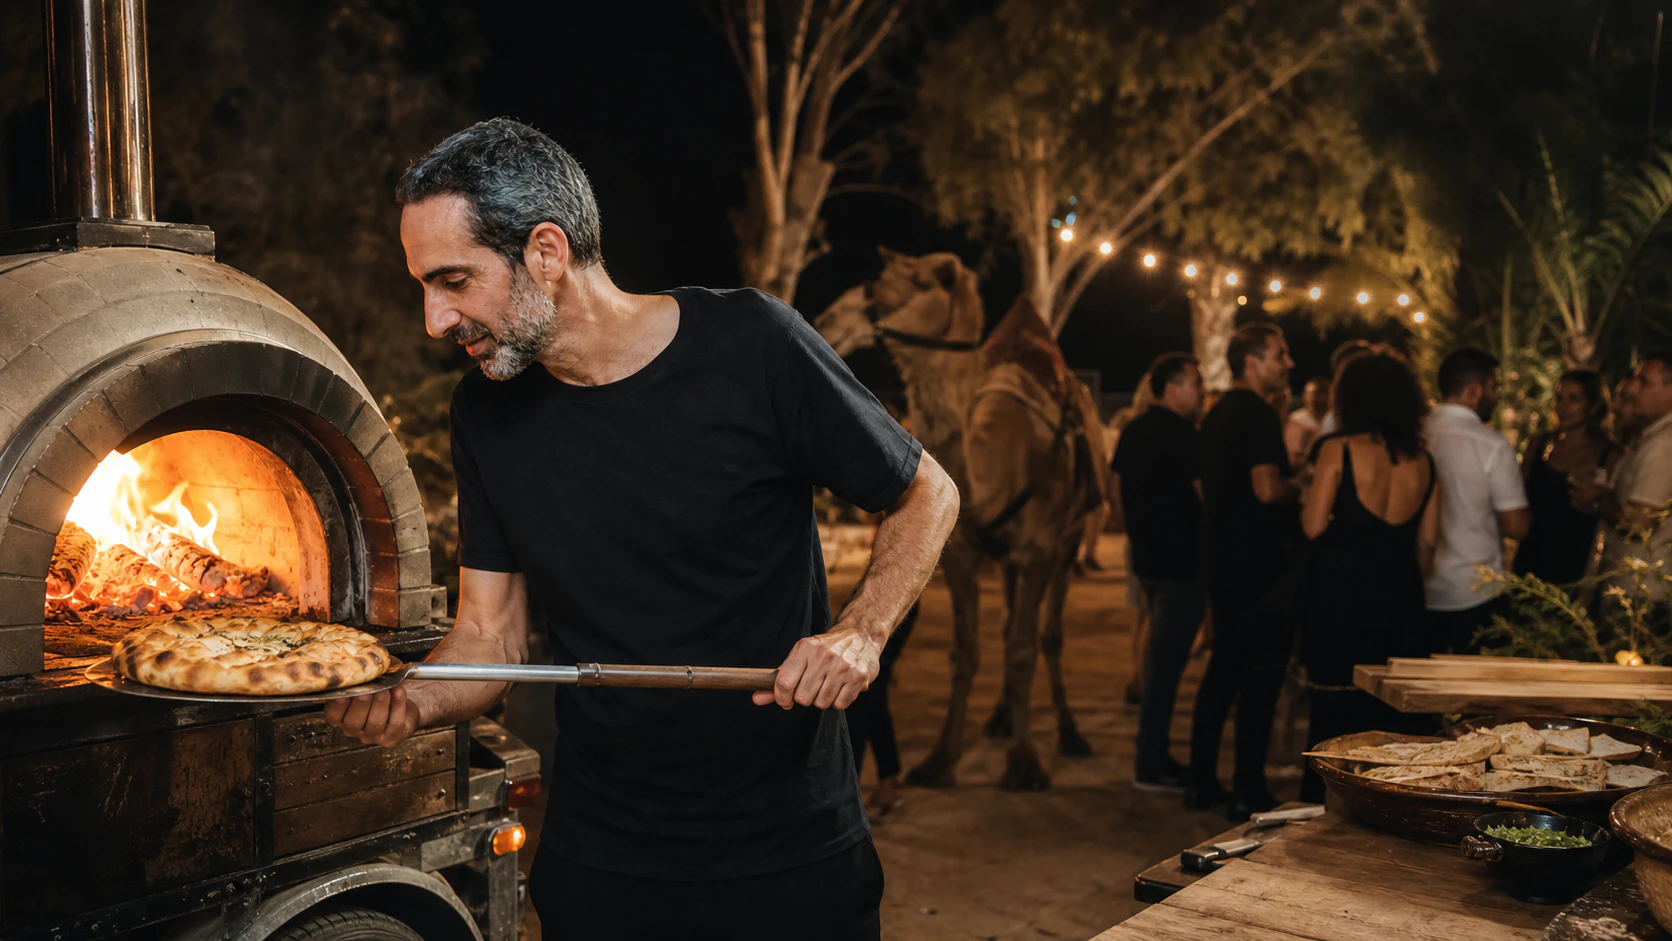
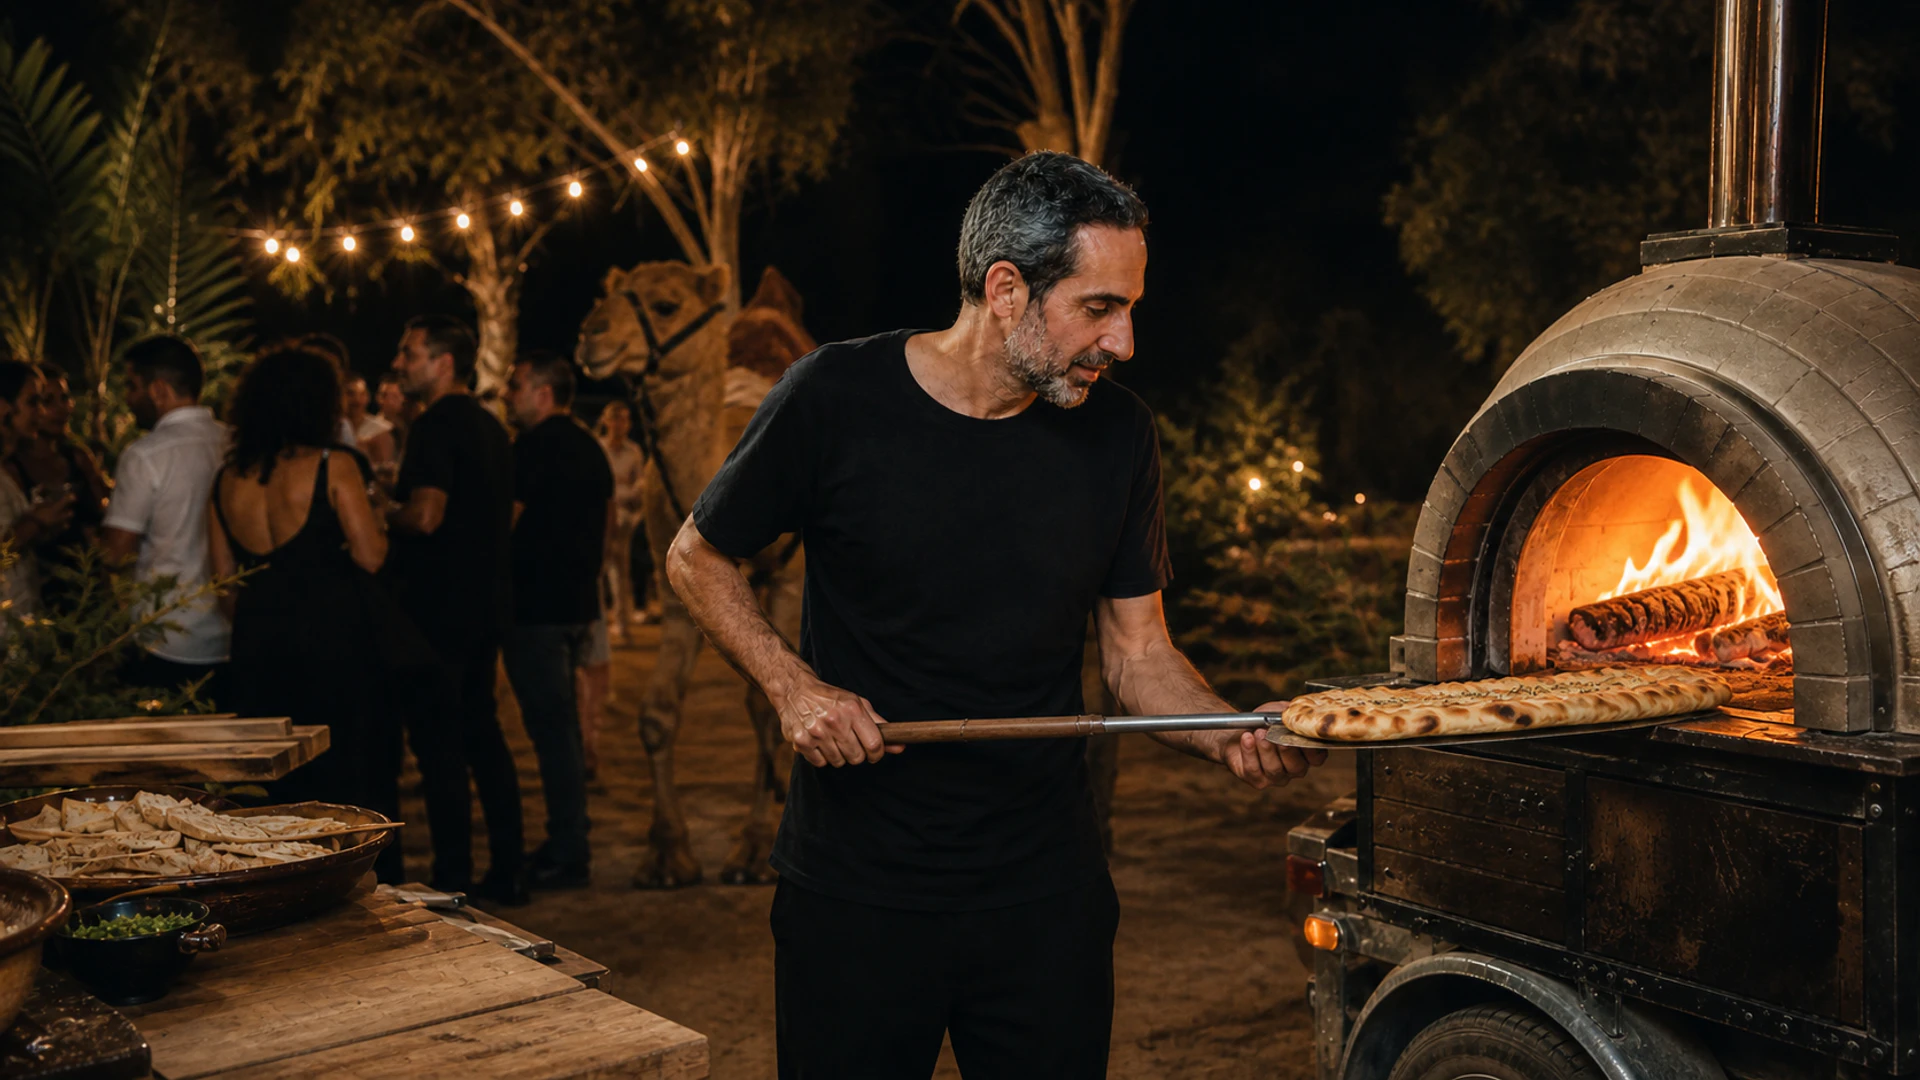
Refresh hero composition and mobile crop

diff --git a/app/globals.css b/app/globals.css
@@ -268,7 +268,7 @@ h1, h2, h3, p { margin-top: 0; }
   height: 100%;
   max-width: none;
   object-fit: cover;
-  object-position: 43% center;
+  object-position: center;
   filter: saturate(1.05) contrast(1.05) brightness(0.92);
   transform: translate(calc(var(--px) * -12px), calc(var(--py) * -8px)) scale(1.045);
   transition: filter 650ms ease, transform 240ms ease-out, opacity 360ms ease;
@@ -1635,20 +1635,21 @@ h1, h2, h3, p { margin-top: 0; }
 
   .poster-hero {
     --split: 50%;
+    --mobile-photo-h: clamp(300px, 40svh, 410px);
     min-height: auto;
     grid-template-columns: 1fr;
-    grid-template-rows: 54svh auto 48px;
+    grid-template-rows: var(--mobile-photo-h) auto 48px;
   }
 
   .poster-hero::before {
-    inset: calc(54svh - 30px) 0 auto;
+    inset: calc(var(--mobile-photo-h) - 30px) 0 auto;
     width: auto;
     height: 60px;
     background: linear-gradient(180deg, transparent, rgba(255, 84, 27, .3), transparent);
   }
 
   .poster-hero::after {
-    inset: calc(54svh - 1px) 0 auto;
+    inset: calc(var(--mobile-photo-h) - 1px) 0 auto;
     width: auto;
     height: 2px;
     background: linear-gradient(90deg, transparent, #ffb43e 20%, #fff1c8 50%, var(--orange) 80%, transparent);
@@ -1675,7 +1676,7 @@ h1, h2, h3, p { margin-top: 0; }
   .poster-photo { grid-column: 1; grid-row: 1; border-inline-end: 0; border-bottom: 1px solid var(--line-dark); }
   .heat-haze-canvas { display: none; }
   .poster-photo:has(.heat-haze-canvas.is-ready) > picture { opacity: 1; }
-  .poster-photo > picture img { object-position: center 42%; transform: scale(1.015); }
+  .poster-photo > picture img { object-position: right center; transform: scale(1.015); }
   .photo-stamp { inset-inline-start: 18px; inset-block-end: 20px; }
 
   .poster-copy { grid-column: 1; grid-row: 2; min-height: 590px; padding: 64px 20px 52px; }
@@ -1688,7 +1689,7 @@ h1, h2, h3, p { margin-top: 0; }
   .poster-cta { width: 100%; }
   .poster-text-link { align-self: center; }
 
-  .ignition { inset-inline-start: 50%; inset-block-start: 54svh; width: 92px; height: 92px; }
+  .ignition { inset-inline-start: 50%; inset-block-start: var(--mobile-photo-h); width: 92px; height: 92px; }
   .ignition-animation { width: 44px; height: 44px; margin-bottom: -3px; }
   .poster-ticker { grid-column: 1; grid-row: 3; }
 

diff --git a/app/page.tsx b/app/page.tsx
@@ -350,8 +350,8 @@ export default function Home() {
           className="poster-photo"
           aria-label="טאבון נייד בוער באירוע ערב"
           data-ember-source="hero"
-          data-ember-x="0.36"
-          data-ember-y="0.57"
+          data-ember-x="0.88"
+          data-ember-y="0.55"
         >
           <picture>
             <source media="(max-width: 760px)" srcSet="/campaign/hero-mobile.webp" />
